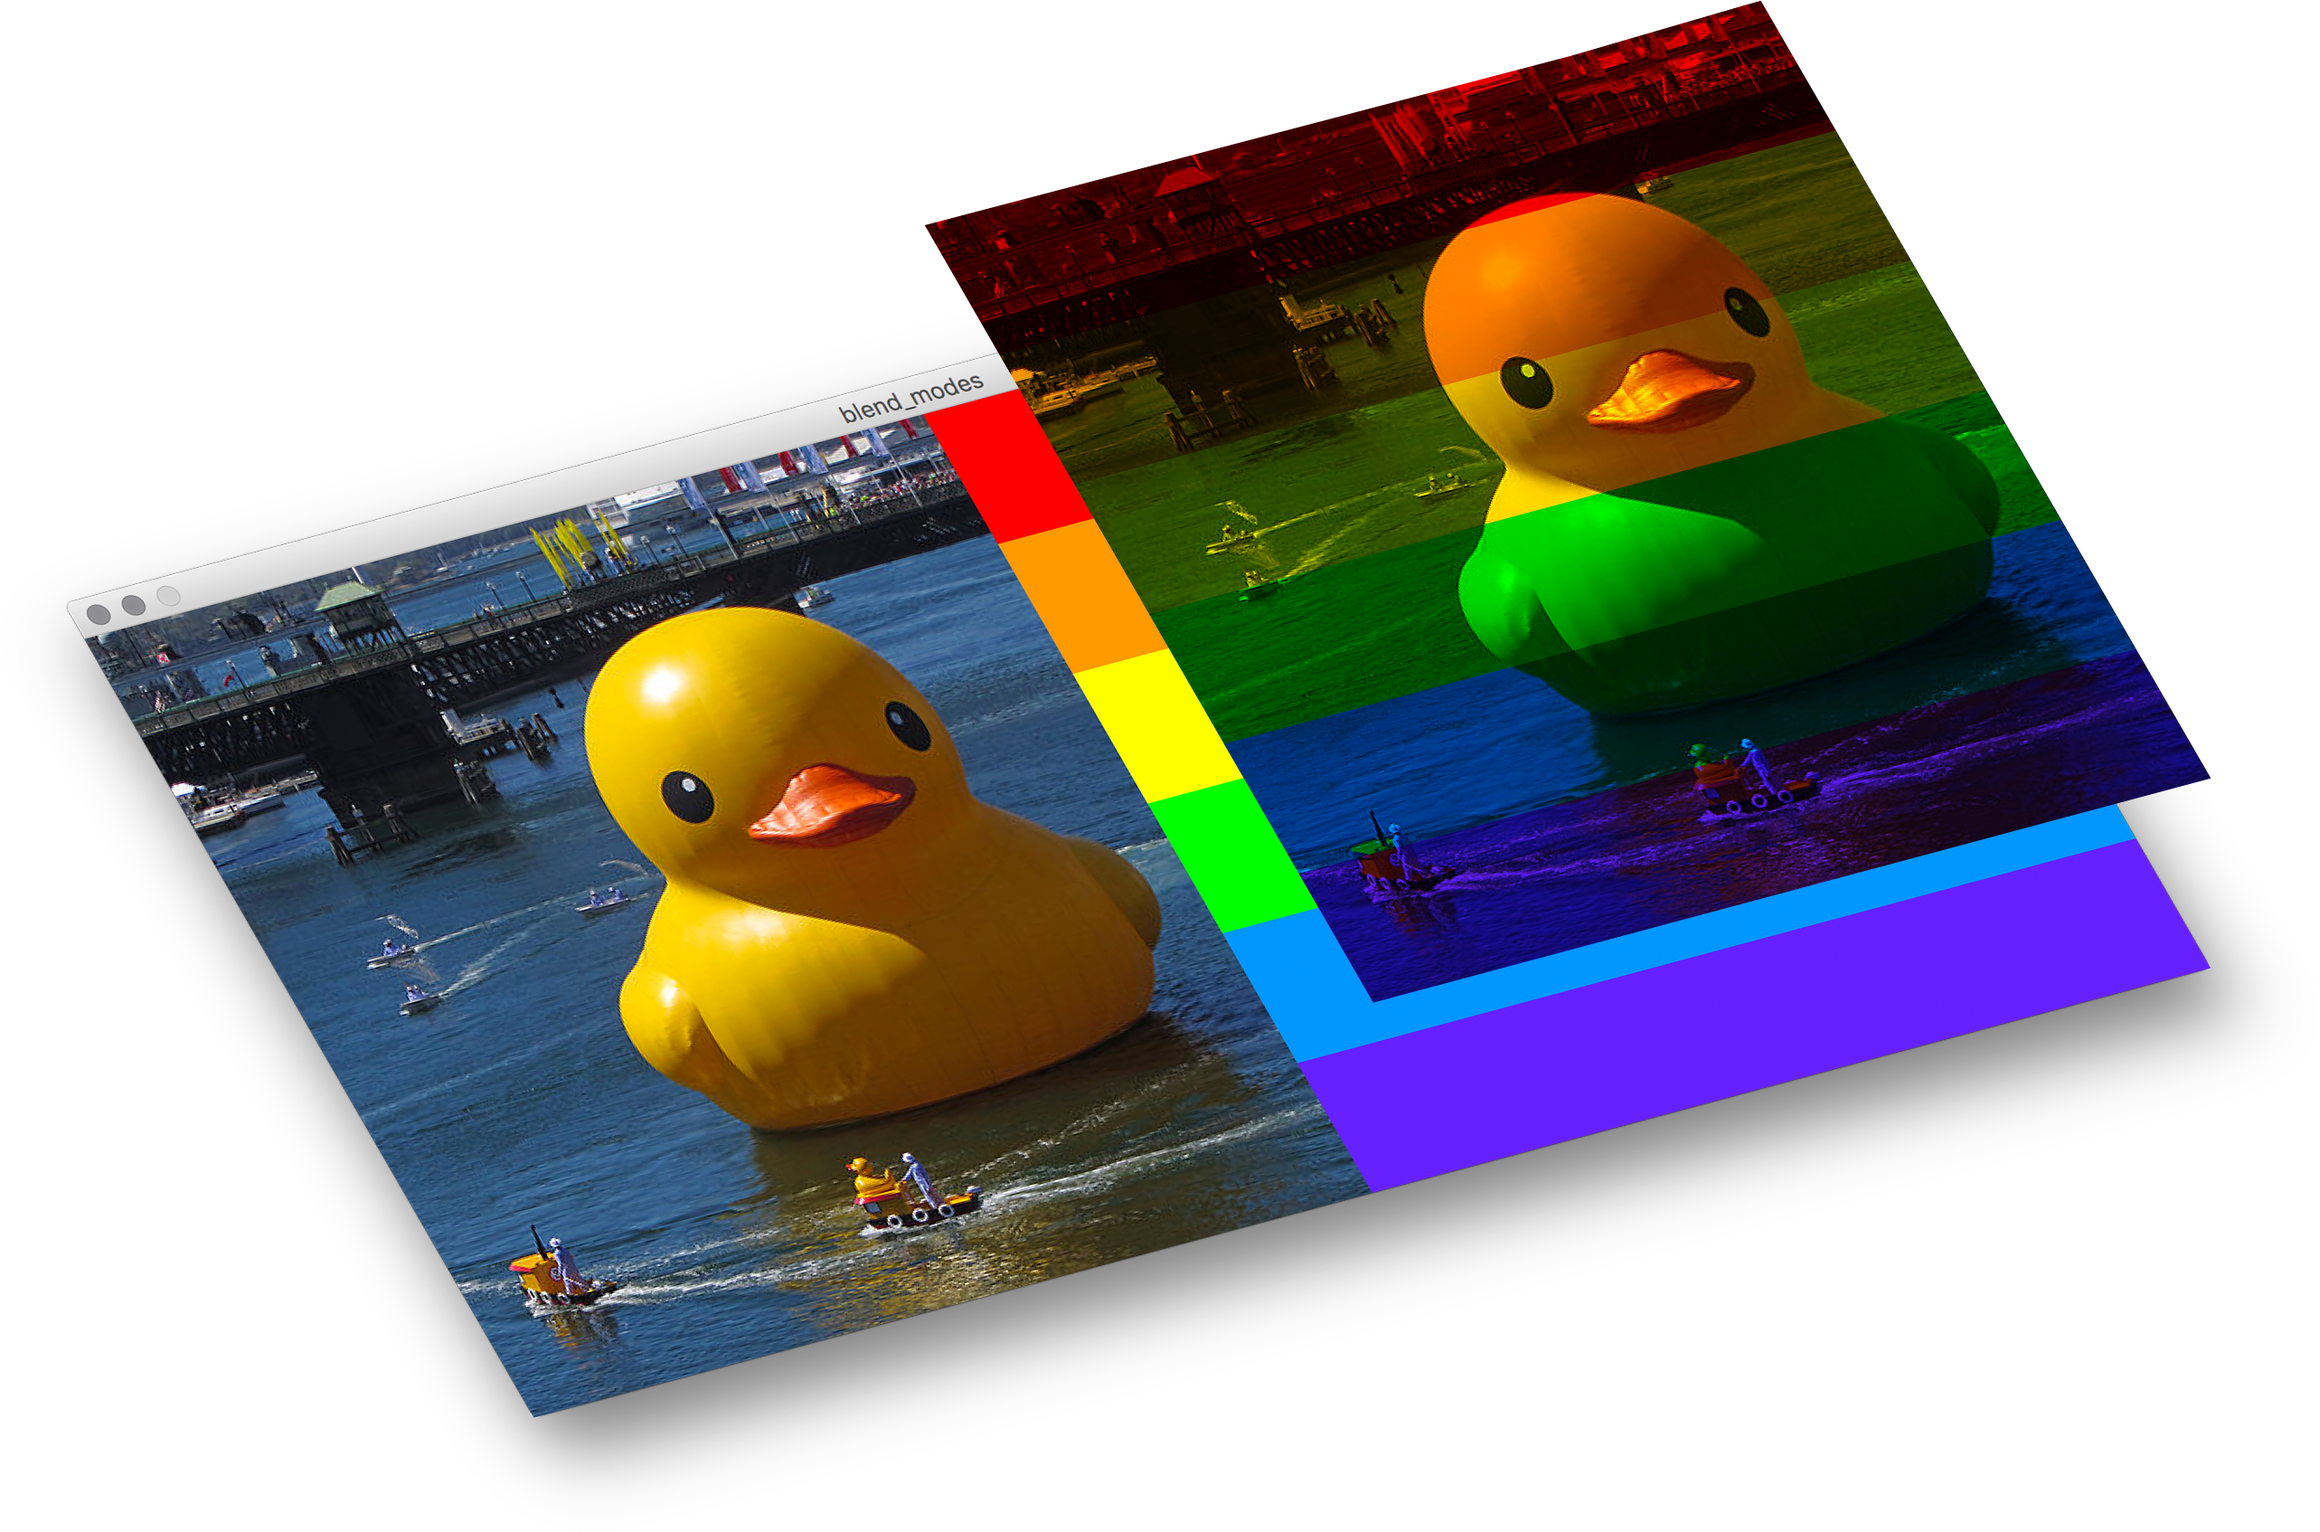
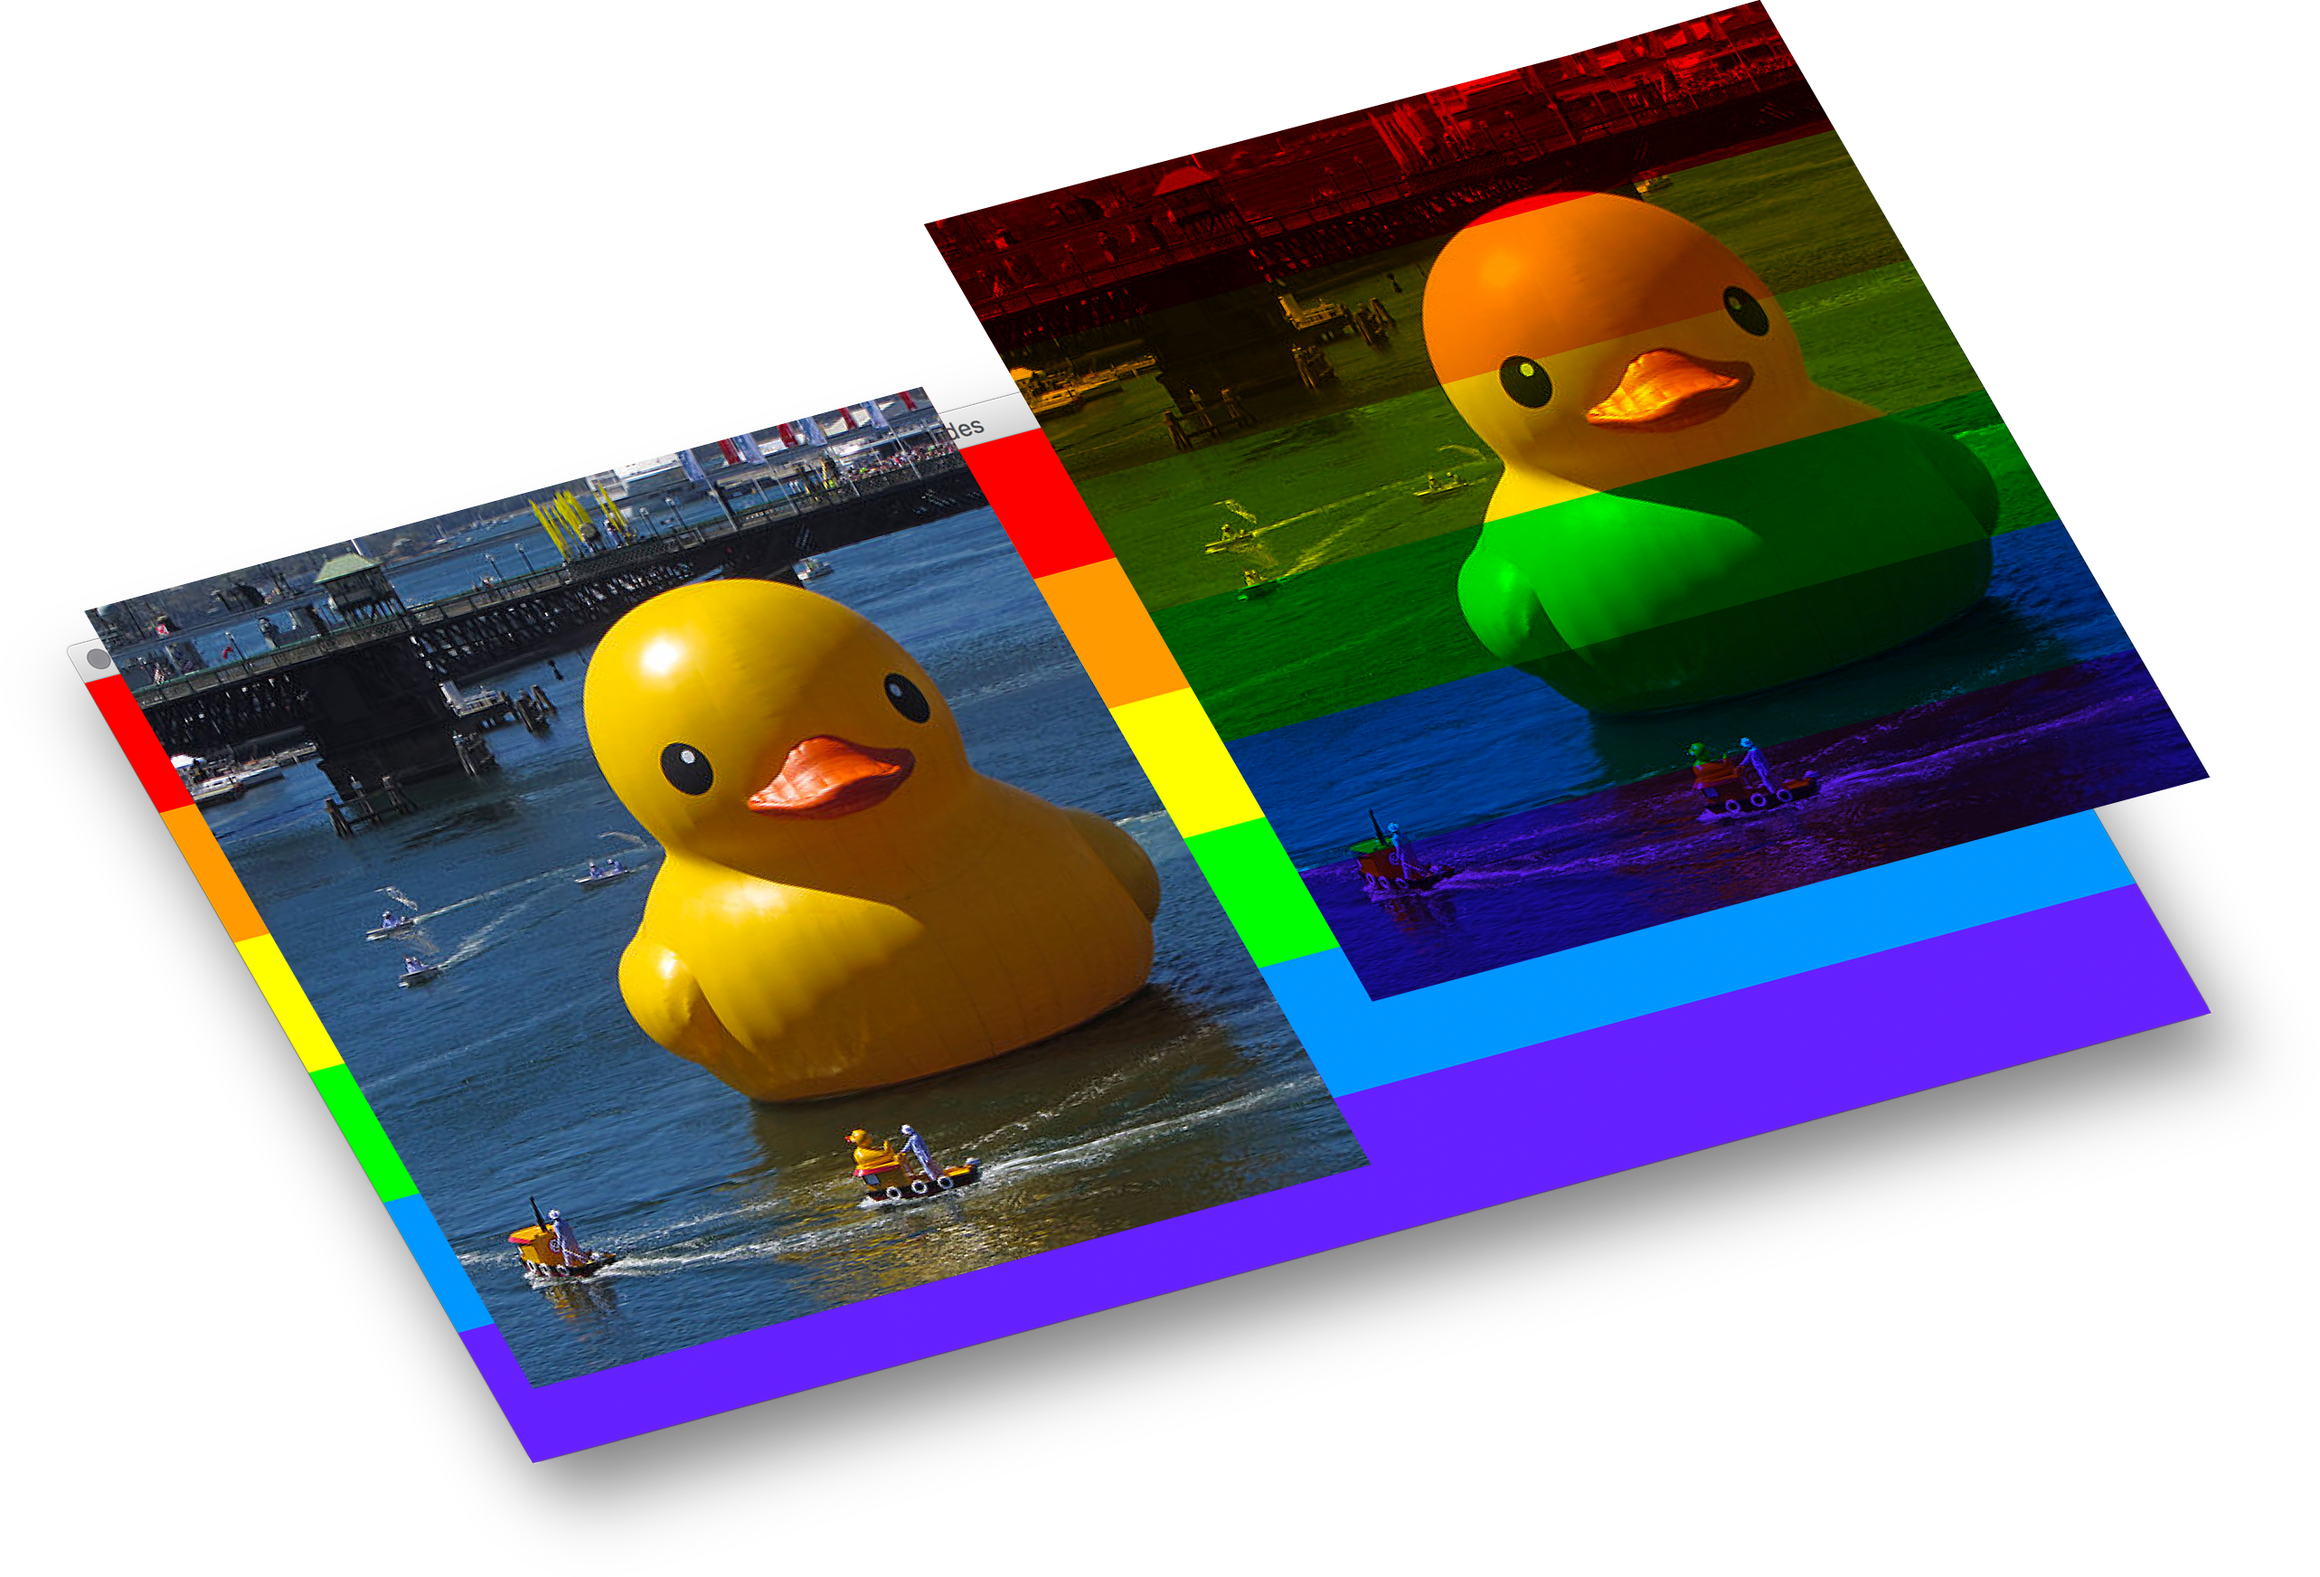
- wip

diff --git a/_posts/2019-01-25-processing.py_in_ten_lessons--06-_tiny_blocks_of_colour.md b/_posts/2019-01-25-processing.py_in_ten_lessons--06-_tiny_blocks_of_colour.md
@@ -1264,15 +1264,15 @@ for i in range(halfwidth*height):
         x = 0
     x += 1
 
-    pixel = get(x,y)
-    r = red(pixel)
-    g = green(pixel)
-    b = blue(pixel)
-    pixel = color(r, g, b)
-    set( x+halfwidth, y, pixel )
+    layer1 = get(x, y)
+    r = red(layer1)
+    g = green(layer1)
+    b = blue(layer1)
+    layer2 = color(r, g, b)
+    set( x+halfwidth, y, layer2 )
 {% endhighlight %}
 
-Splitting the `pixel` value into its composite channels, only to recombine them, seems redundant, but structures the code for the upcoming steps. Run the code to confirm the correct visual output.
+Splitting the `layer1` value into its composite channels, only to recombine them, seems redundant, but structures the code for the upcoming steps. Run the code to confirm the correct visual output.
 
 <figure>
   <img src="{{ site.url }}/img/pitl06/filters-and-blends-blend-image-duplicate.png" />
@@ -1294,9 +1294,10 @@ From here onward, we will make adjustments to the `r`/`g`/`b` variables to achie
 
 {% highlight py %}
     ...
-    r = red(pixel) * red(c)
-    g = green(pixel) * green(c)
-    b = blue(pixel) * blue(c)
+    layer0 = get(x+halfwidth, y)
+    r = red(layer0) * red(layer1)
+    g = green(layer0) * green(layer1)
+    b = blue(layer0) * blue(layer1)
     ...
 {% endhighlight %}
 
@@ -1309,25 +1310,82 @@ The result is a rainbow-sequence of colour tints.
   </figcaption>
 </figure>
 
-I'm sure that you can guess how the *add*, and *subtract* modes work? You can try to programme you own implementation any built-in Processing blend mode. Alternatively, there is the [`blend()`](https://py.processing.org/reference/blend.html) function.
+I'm sure that you can guess how the *add*, and *subtract* modes work? You can programme your own implementation the various blend modes. Alternatively, there are the Processing [`blend()`](https://py.processing.org/reference/blend.html) and [`blendMode()`](https://py.processing.org/reference/blendMode.html) functions. The `blend()` has a few more options, but the `blendMode()` is the approach recommended by Processing's developers.
 
-Mode | Description | Calculation
---- | --- | ---
-*ADD*
+The entire `for` loop can be replaced with this `blend()` and `image()` function.
 
+{% highlight py %}
+    blendMode(MULTIPLY)
+    image(rubberduck, halfwidth,0)
+{% endhighlight %}
 
+Be aware, thought, the the blend mode will persist for any further images or shapes that you draw. For example:
+
+{% highlight py %}
+    blendMode(MULTIPLY)
+    image(rubberduck, halfwidth,0)
+    fill('#FF0000')
+    ellipse(halfwidth,height/2, 300,300)
+{% endhighlight %}
 
 <figure>
-  <img src="{{ site.url }}/img/pitl06/filters-and-blends-blend-image-types.png" />
+  <img src="{{ site.url }}/img/pitl06/filters-and-blends-blend-multiply-persist.png" />
   <figcaption>
-    ...
+    Everything below the <code>blendMode(MULTIPLY)</code> line is blended with a mode of multiply.
+  </figcaption>
+</figure>
+
+To 'reset' to the default, use a blend mode of `BLEND`:
+
+{% highlight py %}
+    blendMode(MULTIPLY)
+    image(rubberduck, halfwidth,0)
+    fill('#FF0000')
+    ellipse(halfwidth,height/2, 300,300)
+    blendMode(BLEND)
+    # back to normal hereafter ...
+{% endhighlight %}
+
+Below is a table of the various `blendMode()` arguments/modes and their calculations for the red channel (of course, blue and green would be similarly affected).
+
+`BLEND`          | the default/normal blend mode
+`ADD`            | `r = red(layer0) + red(layer1)`
+`DARKEST`        | `r = min( red(layer0), red(layer1) )`
+`DIFFERENCE``   `| `SUBTRACT` that switches operands to always get a positive value
+`EXCLUSION`      | `DIFFERENCE` with a lower contrast
+`LIGHTEST`       | `r = max( red(layer0), red(layer1) )`
+`MULTIPLY`       | `r = red(layer0) * red(layer1)`
+`REPLACE`        | `BLEND` with no alpha support
+`SCREEN`         | `r = 1-(1-red(layer0)) * (1-red(layer1))`
+`SUBTRACT`       | `r = red(layer0) - red(layer1)`
+|||
+
+The following image compares each of above-listed modes -- beginning with `BLEND` at the top-left, then proceeding left-to-right, row-by-row, ending on `SUBTRACT` at the bottom-right.
+
+<figure>
+  <img src="{{ site.url }}/img/pitl06/filters-and-blends-blend-image-types.png" class="fullwidth" />
+  <figcaption>
+    <table width="100%">
+      <tr>
+        <td colspan="3"><b>Corresponding blend code:</b></td>
+      </tr>
+      <tr>
+        <td><code>blendMode(BLEND)</code></td><td><code>blendMode(ADD)</code></td><td><code>blendMode(DARKEST)</code></td>
+      </tr>
+      <tr>
+        <td><code>blendMode(DIFFERENCE)</code></td><td><code>blendMode(EXCLUSION)</code></td><td><code>blendMode(LIGHTEST)</code></td>
+      </tr>
+      <tr>
+        <td><code>blendMode(MULTIPLY)</code></td><td><code>blendMode(SUBTRACT)</code></td><td><code>blendMode(SCREEN)</code></td>
+      </tr>
+    </table>
   </figcaption>
 </figure>
 
 ...
 
 
-### Drawing Blend Modes
+## Mondrian Task
 
 modrian
 
